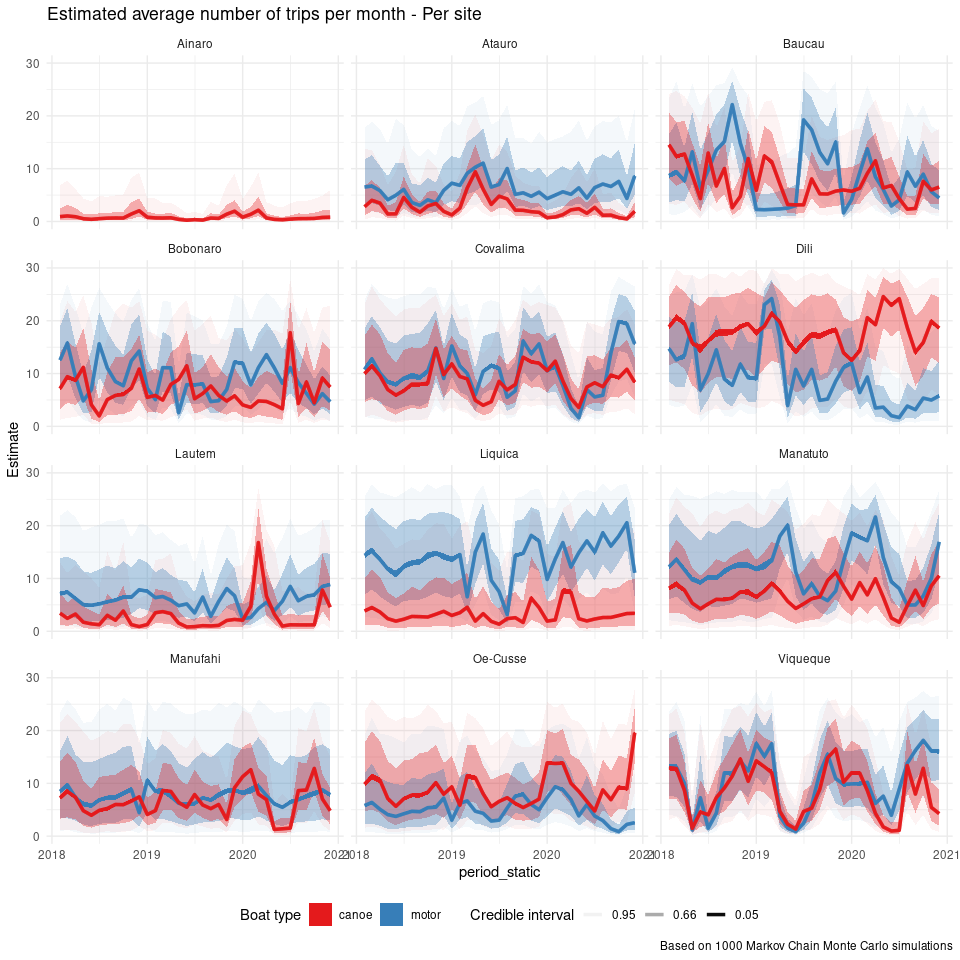
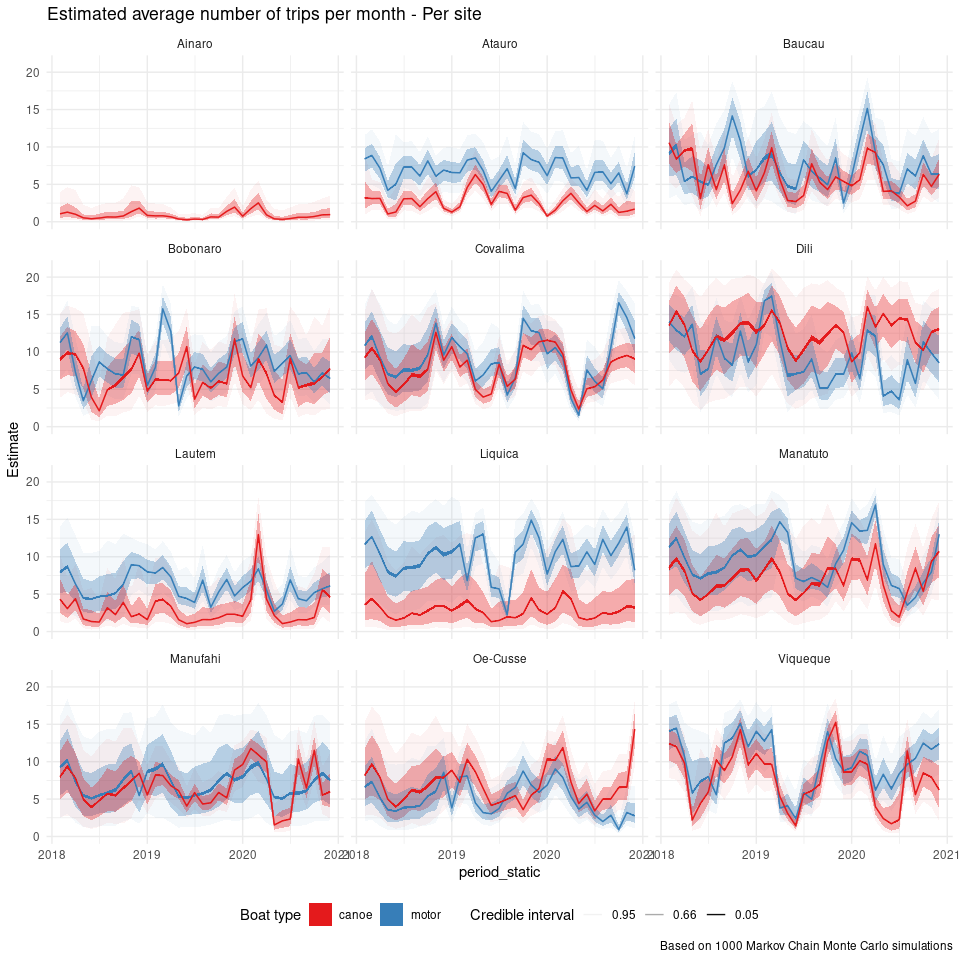
Use negative binomial model

diff --git a/notebooks/vessel-activity.md b/notebooks/vessel-activity.md
@@ -158,7 +158,7 @@ monthly_predictions_overall <- function(x, y){
 imap_dfr(vessel_activity_model_brms, monthly_predictions_overall) %>%
   ggplot(aes(x = period_static, y = Estimate, fill = boat_code, colour = boat_code)) + 
   stat_lineribbon(aes(alpha = forcats::fct_rev(ordered(stat(.width)))), 
-                  .width = c(0.05, 0.66, 0.95)) +
+                  .width = c(0.05, 0.66, 0.95), size = 0.5) +
   facet_grid(cols = vars(boat_code)) +
   scale_fill_brewer(palette = "Set1", aesthetics = c("colour", "fill"), 
                     name = "Boat type") +
@@ -203,7 +203,7 @@ monthly_predictions_site <- function(x, y){
 imap_dfr(vessel_activity_model_brms, monthly_predictions_site) %>%
   ggplot(aes(x = period_static, y = Estimate, fill = boat_code, colour = boat_code)) + 
   stat_lineribbon(aes(alpha = forcats::fct_rev(ordered(stat(.width)))), 
-                  .width = c(0.05, 0.66, 0.95)) +
+                  .width = c(0.05, 0.66, 0.95), size = 0.5) +
   facet_wrap(vars(municipality_name), ncol = 3) +
   scale_fill_brewer(palette = "Set1", aesthetics = c("colour", "fill"), 
                     name = "Boat type") +
